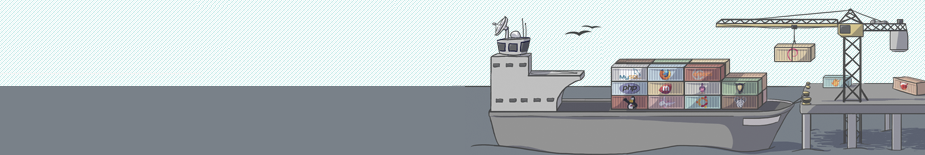
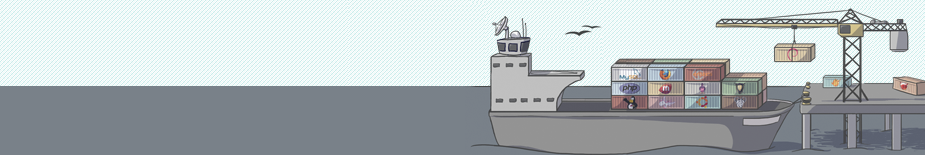
Use what I hope is slightly clearer wording on importer and profile. Clean up minute oddities in the ship image a little bit.

Changed region(s): [[0.0, 0.0, 0.6357, 0.5677], [0.2119, 0.0, 0.2422, 0.0516]]

diff --git a/mysite/profile/templates/profile/main.html b/mysite/profile/templates/profile/main.html
@@ -16,7 +16,7 @@
         <ul>
             <li>
             <a href='{% url mysite.profile.views.portfolio_editor %}'>
-                Manage &raquo;
+                Add/edit projects &raquo;
             </a>
             </li>
         </ul>
@@ -35,7 +35,7 @@
         {% if editable %}
         <div id='add_contribs_notification' class='notification'>
             <div class='body'>
-                If you've contributed to open source, click 'Manage &raquo;' to start your contribution portfolio. If you're a new contributor, go forth and <a href='{% url mysite.search.views.fetch_bugs %}'>find a bug to work on</a>! 
+                If you've contributed to open source, click 'Add/edit projects &raquo;' to start your contribution portfolio. If you're a new contributor, go forth and <a href='{% url mysite.search.views.fetch_bugs %}'>find a bug to work on</a>! 
             </div>
         </div>
         {% endif %}

diff --git a/mysite/profile/templates/profile/importer.html b/mysite/profile/templates/profile/importer.html
@@ -61,7 +61,7 @@ Manage projects
             action='{% url mysite.profile.views.prepare_data_import_attempts_do %}'>
             <div class='body'>
                 <div class='howto'>
-                    <h5><a href='#'>Find my involvement automatically</a></h5>
+                    <h5><a style='position: relative; top: -10px;' href='#'>Find my projects and links automatically</a></h5>
                     <p style='margin-top: 60px;'>
                     Please enter the usernames or email addresses you use to contribute to FLOSS.
                     We'll find links to your activity and involvement in
